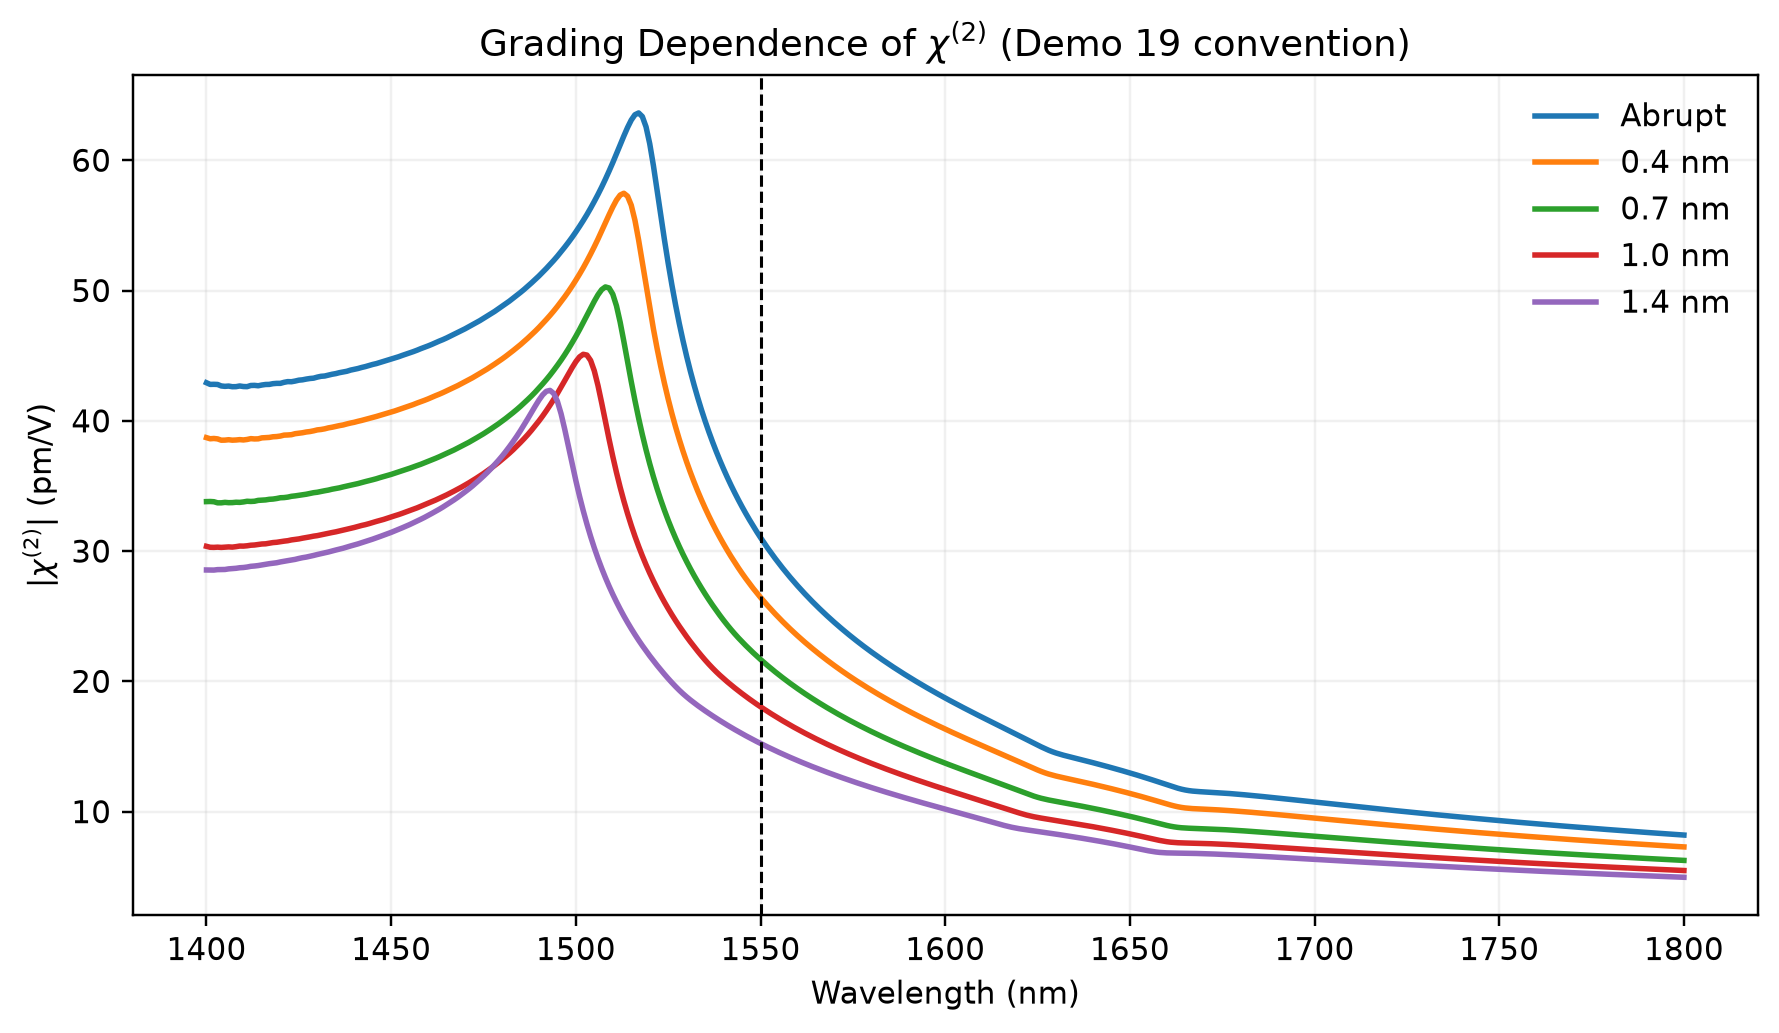
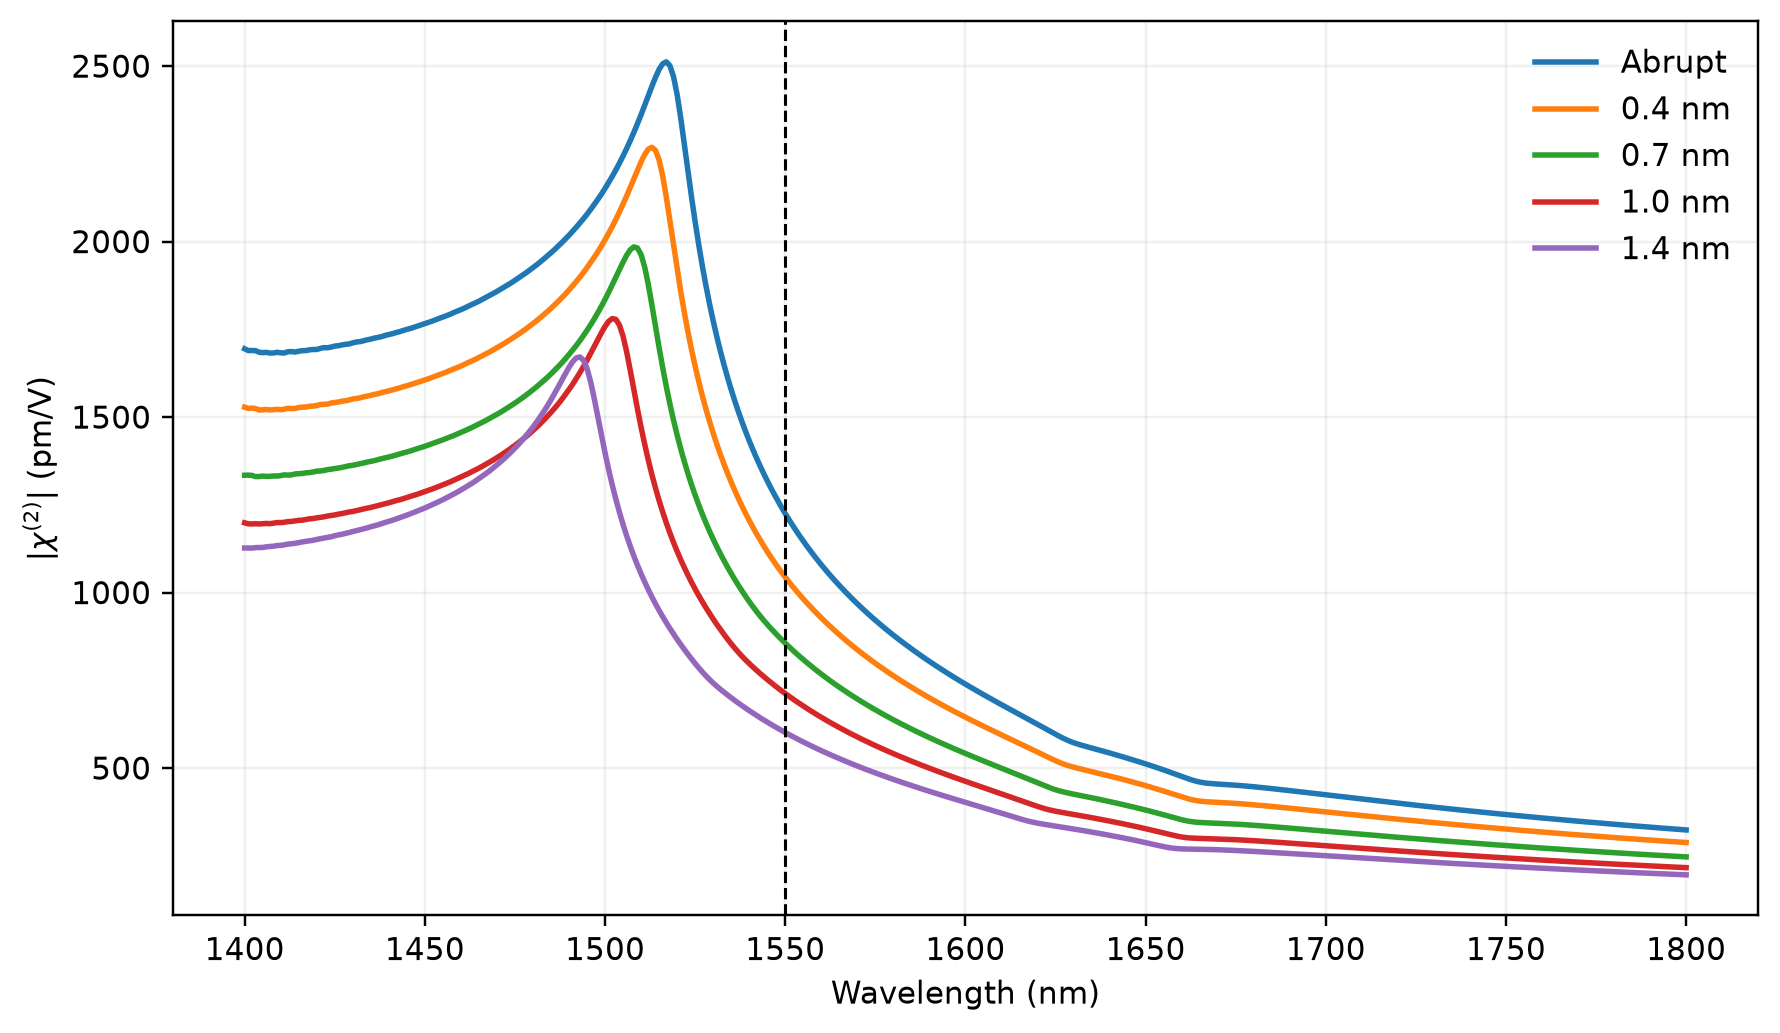
demo20 scale

diff --git a/nextnano/demos/20_quantum_well_interface_grading_scaled/s04_solver.py b/nextnano/demos/20_quantum_well_interface_grading_scaled/s04_solver.py
@@ -48,6 +48,9 @@ SHARED_DEPENDENCIES: Mapping[str, str] = {
         "post-solve output presence check and realized alloy-composition "
         "readback, so the solver's own composition is verified against the "
         "requested profile.",
+    "16_acqw_renderer_stress_validation/demo16.py":
+        "not called by Demo 20, but imported at module scope by demo16b.py. "
+        "Its directory has to be importable or 'import demo16b' fails.",
     "14_absolute_chi2_graded_acqw_bo/demo14.py":
         "analyse_real_trial: the Demo 11 parser chain that turns a raw run into "
         "energies, envelopes and matrix elements. Reused so Demo 20's parsing "
@@ -61,6 +64,7 @@ _SHARED_PATHS = (
     config20.DEMOS_DIR / "14_absolute_chi2_graded_acqw_bo",
     config20.DEMOS_DIR / "16B_simple_acqw_grading_validation",
     config20.DEMOS_DIR / "16E_acqw_structure_physics_optical_comparison",
+    config20.DEMOS_DIR / "16_acqw_renderer_stress_validation",
 )
 
 
@@ -226,7 +230,7 @@ def solve_case(
         imported_files=imported,
         logs_dir=logs_dir,
     )
-    demo16b.verify_quantum_outputs(cfg, raw_output_dir)
+    demo16b.verify_quantum_outputs(_demo16b_style_config(cfg), raw_output_dir)
 
     # Compare the composition nextnano++ built against the one requested.
     alloy_path = demo16b.find_alloy_composition(raw_output_dir)
@@ -246,6 +250,23 @@ def solve_case(
         composition_max_error=composition_error,
         message="solver returned successfully and realized the requested profile",
     )
+
+
+def _demo16b_style_config(cfg: Mapping[str, Any]) -> dict[str, Any]:
+    """Demo 20's solver block under the ``nextnano`` key Demo 16B reads.
+
+    ``demo16b.verify_quantum_outputs`` looks up ``cfg["nextnano"]``. Demo 20
+    keeps the same fields under ``solver`` instead, so this is the same
+    translation ``_demo14_style_config`` performs, narrowed to the two keys the
+    output check actually reads.
+    """
+
+    return {
+        "nextnano": {
+            "parser_profile": str(cfg["solver"]["parser_profile"]),
+            "quantum_region_name": str(cfg["solver"]["quantum_region_name"]),
+        }
+    }
 
 
 def parse_case(

diff --git a/nextnano/demos/20_quantum_well_interface_grading_scaled/s09_plots.py b/nextnano/demos/20_quantum_well_interface_grading_scaled/s09_plots.py
@@ -191,9 +191,7 @@ def physics_plots(
                 ax.plot(*spectra[case_id], label=label, lw=1.8)
         target = float(cfg["chi2"]["target_wavelength_nm"])
         ax.axvline(target, color="black", ls="--", lw=1)
-        ax.set(xlabel="Wavelength (nm)", ylabel="$|\\chi^{(2)}|$ (pm/V)",
-               title=f"Grading Dependence of $\\chi^{{(2)}}$ "
-                     f"({_convention_label(cfg)})")
+        ax.set(xlabel="Wavelength (nm)", ylabel="$|\\chi^{(2)}|$ (pm/V)")
         ax.legend(frameon=False)
         ax.grid(alpha=0.18)
         made.append(_finish(fig, destination / DEMO19_FIGURES[3], dpi))

diff --git a/demo_results/demo20_license/tables/demo20_nextnano_input_examples.md b/demo_results/demo20_license/tables/demo20_nextnano_input_examples.md
@@ -1,0 +1,160 @@
+# Demo 20 - Generated nextnano++ Input Examples
+
+The growth coordinate is `x` in nextnano++ and is reported as `z` in plots. Every width below is a full start-to-end transition width centred on I1-I4.
+
+## Abrupt
+
+Requested by Python:
+
+```json
+{
+  "profile": "abrupt",
+  "widths_nm": {
+    "I1": 0,
+    "I2": 0,
+    "I3": 0,
+    "I4": 0
+  }
+}
+```
+
+Actual generated nextnano++ syntax:
+
+```text
+structure{
+    output_region_index{ boxes = no }
+    output_material_index{ boxes = no }
+    output_alloy_composition{ boxes = no }
+    region{
+        everywhere{}
+        ternary_constant{ name = "Al(x)Ga(1-x)As"  alloy_x = 0.550000 }
+    }
+    region{
+        line{ x = [0.000000, 30.000000] }
+        contact{ name = qw_contact }
+    }
+    region{
+        line{ x = [9.100000, 16.200000] }
+        binary{ name = "GaAs" }
+    }
+    region{
+        line{ x = [18.000000, 20.900000] }
+        binary{ name = "GaAs" }
+    }
+}
+```
+
+## Linear 0.7 nm
+
+Requested by Python:
+
+```json
+{
+  "profile": "linear",
+  "widths_nm": {
+    "I1": 0.7,
+    "I2": 0.7,
+    "I3": 0.7,
+    "I4": 0.7
+  }
+}
+```
+
+Actual generated nextnano++ syntax:
+
+```text
+structure{
+    output_region_index{ boxes = no }
+    output_material_index{ boxes = no }
+    output_alloy_composition{ boxes = no }
+    region{
+        everywhere{}
+        ternary_constant{ name = "Al(x)Ga(1-x)As"  alloy_x = 0.550000 }
+    }
+    region{
+        line{ x = [0.000000, 30.000000] }
+        contact{ name = qw_contact }
+    }
+    region{
+        line{ x = [9.100000, 16.200000] }
+        binary{ name = "GaAs" }
+    }
+    region{
+        line{ x = [18.000000, 20.900000] }
+        binary{ name = "GaAs" }
+    }
+    region{
+        line{ x = [8.750000, 9.450000] }
+        ternary_linear{ name = "Al(x)Ga(1-x)As"  alloy_x = [0.550000, 0.000000]  x = [8.750000, 9.450000] }
+    }
+    region{
+        line{ x = [15.850000, 16.550000] }
+        ternary_linear{ name = "Al(x)Ga(1-x)As"  alloy_x = [0.000000, 0.550000]  x = [15.850000, 16.550000] }
+    }
+    region{
+        line{ x = [17.650000, 18.350000] }
+        ternary_linear{ name = "Al(x)Ga(1-x)As"  alloy_x = [0.550000, 0.000000]  x = [17.650000, 18.350000] }
+    }
+    region{
+        line{ x = [20.550000, 21.250000] }
+        ternary_linear{ name = "Al(x)Ga(1-x)As"  alloy_x = [0.000000, 0.550000]  x = [20.550000, 21.250000] }
+    }
+}
+```
+
+## Fermi-like 0.7 nm
+
+Requested by Python:
+
+```json
+{
+  "profile": "fermi",
+  "widths_nm": {
+    "I1": 0.7,
+    "I2": 0.7,
+    "I3": 0.7,
+    "I4": 0.7
+  }
+}
+```
+
+Actual generated nextnano++ syntax:
+
+```text
+import{
+    file{ name = "al_profile"  filename = "al_profile.dat"  format = DAT  number_of_dimensions = 1 }
+    output_imports{}
+}
+
+structure{
+    output_region_index{ boxes = no }
+    output_material_index{ boxes = no }
+    output_alloy_composition{ boxes = no }
+    region{
+        everywhere{}
+        ternary_constant{ name = "Al(x)Ga(1-x)As"  alloy_x = 0.550000 }
+    }
+    region{
+        line{ x = [0.000000, 30.000000] }
+        contact{ name = qw_contact }
+    }
+    region{
+        line{ x = [0.000000, 30.000000] }
+        ternary_import{ name = "Al(x)Ga(1-x)As"  import_from = "al_profile" }
+    }
+}
+```
+
+Imported DAT sample (first/last rows):
+
+```text
+0.000000 0.55000000
+0.050000 0.55000000
+0.100000 0.55000000
+0.150000 0.55000000
+...
+29.850000 0.55000000
+29.900000 0.55000000
+29.950000 0.55000000
+30.000000 0.55000000
+```
